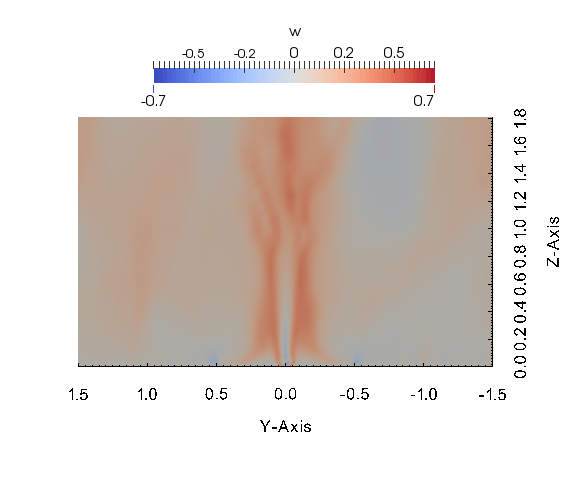
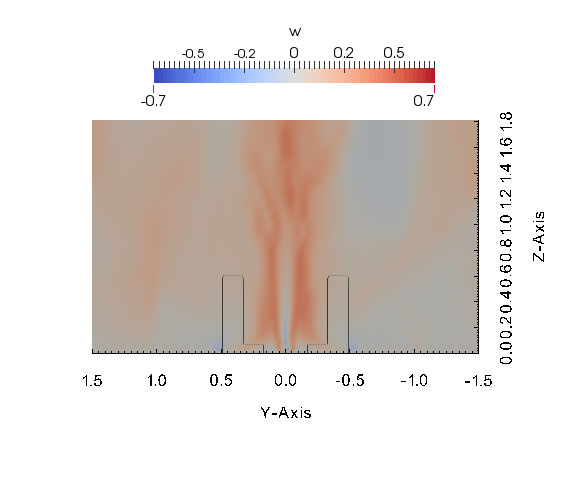
updating

diff --git a/disputatio/causa/scaling/proposal.tex b/disputatio/causa/scaling/proposal.tex
@@ -81,16 +81,17 @@ scale between each configuration.
 \begin{figure}[!htb]
 \minipage{0.32\textwidth}
   \includegraphics[width=\linewidth]{figs/1m_temp_iso}
-  \caption{1m Apparatus}\label{fig:1m_scaling}
+  \caption*{1m Apparatus}\label{fig:1m_scaling}
 \endminipage\hfill
 \minipage{0.32\textwidth}
   \includegraphics[width=\linewidth]{figs/3m_temp_iso}
-  \caption{3m Apparatus}\label{fig:3m_scaling}
+  \caption*{3m Apparatus}\label{fig:3m_scaling}
 \endminipage\hfill
 \minipage{0.32\textwidth}%
   \includegraphics[width=\linewidth]{figs/5m_temp_iso}
-  \caption{5m Apparatus}\label{fig:5m_scaling}
+  \caption*{5m Apparatus}\label{fig:5m_scaling}
 \endminipage
+\caption{3d Isocontour Rendering of the Thermal Plume across three different cases.}
 \end{figure}
 
 
@@ -115,21 +116,24 @@ It is clear that as the vanes grow in size, the physical size of the thermal plu
 
 \begin{figure}[!htb]
 \minipage{0.32\textwidth}
-  \includegraphics[width=\linewidth]{figs/w_scaled_1m}
-  \caption{Vertical Velocity: 1m Apparatus}\label{fig:1m_vz}
+\includegraphics[width=\linewidth]{figs/w_scaled_1m}
+\caption*{1m}\label{fig:1m_vz}
 \endminipage\hfill
 \minipage{0.32\textwidth}
-  \includegraphics[width=\linewidth]{figs/w_scaled_3m}
-  \caption{Vertical Velocity: 3m Apparatus}\label{fig:3m_vz}
+\includegraphics[width=\linewidth]{figs/w_scaled_3m}
+\caption*{3m}\label{fig:3m_vz}
 \endminipage\hfill
 \minipage{0.32\textwidth}%
-  \includegraphics[width=\linewidth]{figs/w_scaled_5m}
-  \caption{Vertical Velocity: 5m Apparatus}\label{fig:5m_vz}
+\includegraphics[width=\linewidth]{figs/w_scaled_5m}
+  \caption*{1m}\label{fig:5m_vz}
 \endminipage
+\caption{Vertical Velocity}
 \end{figure}
  
-Figure \ref{fig:scaling_slice} shows the vertical velocity for each of the three cases. It is more clear here than in the thermal column case
-that there exists a qualitatively similar structure between each of the three cases. 
+Figure \ref{fig:scaling_slice} shows the vertical velocity for each of the three cases. In each case the aspect ratio between domain extent
+and apparatus size are maintained roughly constant, so as to give the appearance of ``scaling'' each apparatus. In this way, it is more 
+clear here than in the thermal column case that there exists a qualitatively similar structure between each of the three cases. The velocity plume 
+size occupies roughly the same fraction of the volume inside the vanes. 
 
 
 %
